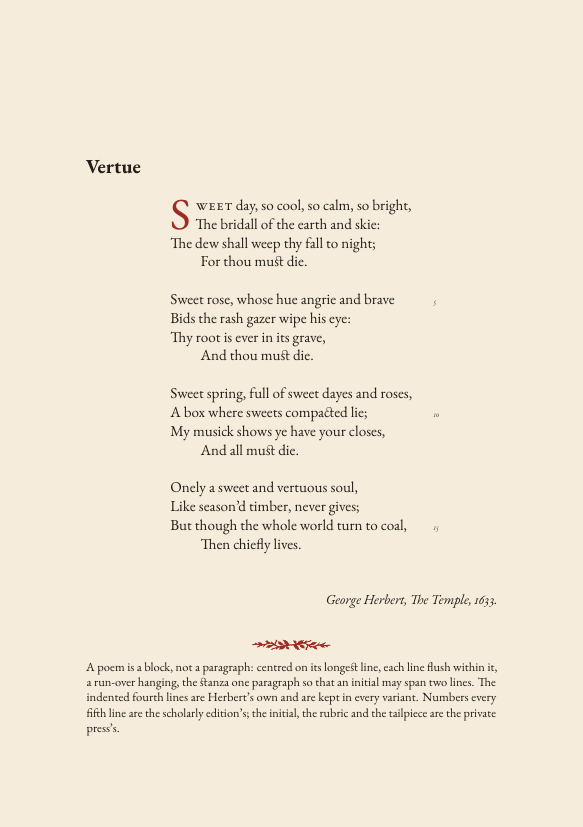
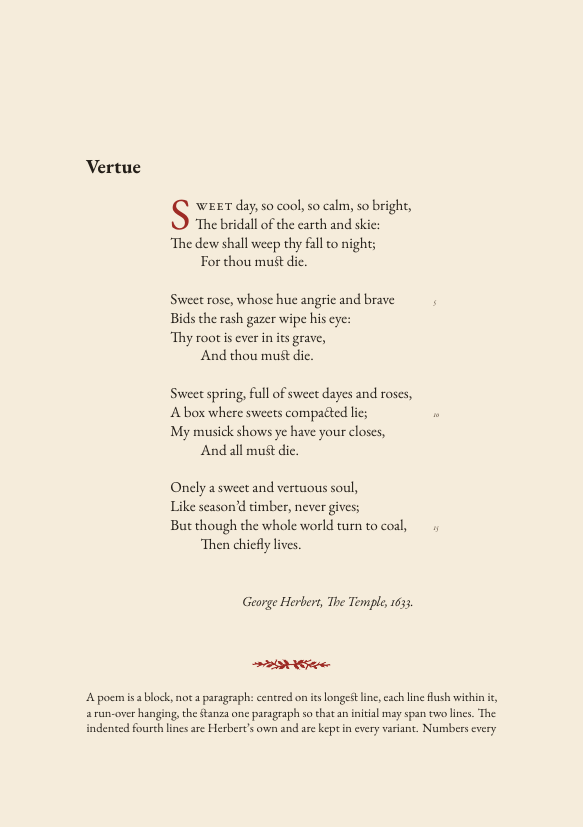
Verse review applied: overflow warned of, no minipage, head width, colophon
The other thread reviewed the verse work and found seven things; all are
applied here, with one more found in the applying.

atlas-verse.sty: a stanza's lines are counted and, after its \par,
compared with \prevgraf, so a block set too narrow warns instead of
silently reading as indents (\prevgraf is 0 inside \write; a count holds
it). \\ before \end{poem} ends the poem rather than making an empty last
line. The block is no longer a minipage: ordinary paragraphs centred by
\leftskip and \rightskip, so a long poem breaks across leaves at a stanza
end; a block wider than the measure is set at the measure with a
warning. The offset is a dimen, not a \newlength skip, which took
"plus1fil" as text and justified every line. A one-word first line keeps
its \\ out of the initial's small capitals. The attribution hangs on the
block. poem* takes no numbers, documented. A \atlassetdate for the
colophon's "on <date>".

atlas-grand.sty: \fancyhfoffset{0pt} after its \geometry -- fancyhdr had
frozen \headwidth at atlas's measure, and every grand page since the
first merge had its head rule 12 mm wider than the block and head and
folio 6 mm off its axis. The sheet sentence ends with \space, so the
colophon no longer reads "order.The".

atlas.sty: \atlas@colophon@when hook; the two colophon hooks printed
with nothing between them.

bound/temple.tex: the two \poemblock lines that named the wrong longest
line (Prayer, Easter Wings); the revision and the setting date passed on
[…]

Changed region(s): [[0.1544, 0.7255, 0.8645, 0.9069], [0.7719, 0.7255, 0.8027, 0.7557]]

diff --git a/examples/09-verse-page.tex b/examples/09-verse-page.tex
@@ -4,7 +4,7 @@
 % a block centred on its longest line, each line flush within it and a
 % run-over hanging; a two-line initial opens it; the title in spaced small
 % capitals; every fifth line numbered in the margin; the source set small
-% and right under the last line; a tailpiece. Against each, what the
+% and right under the last line, on the block; a tailpiece. Against each, what the
 % article class and its verse environment give: a poem indented at the
 % left margin, a bold title, no initial, no numbers, the source as a
 % paragraph, white space. The text is Herbert's "Vertue" (The Temple,
@@ -17,7 +17,9 @@
 % line, a stanza is one paragraph so an initial can span two lines, and
 % each line is outdented from a hanging \leftskip so that only a run-over
 % keeps the hang. See the block's comment for what \\ does and why there
-% is no \everypar.
+% is no \everypar. sty/atlas-verse.sty's block descends from this one but
+% has no minipage, so a poem there can break across leaves; this plate is a
+% one-page specimen and keeps its own.
 \documentclass[11pt]{article}
 
 \usepackage{iftex}
@@ -119,16 +121,17 @@
   \newcommand{\poemnumber}{}
 }
 % The block centred on its longest line, as a book of poems sets it; or
-% the poem at the left margin, indented the 1.5 em the verse environment
-% indents it.
+% the poem where the class's verse environment puts it: lines at
+% \leftmargini (2.5 em) from the left margin, run-overs 1.5 em further,
+% and a right margin to match.
 \atlascontrol{block}{
   \newcommand{\poemopen}{\begin{center}\begin{minipage}[t]{\poemwidth}}
   \newcommand{\poemclose}{\end{minipage}\end{center}}
 }{
-  \newcommand{\poemopen}{\par\noindent\hspace*{1.5em}\begin{minipage}[t]{\dimexpr\linewidth-1.5em\relax}}
+  \newcommand{\poemopen}{\par\noindent\hspace*{\leftmargini}\begin{minipage}[t]{\dimexpr\linewidth-\leftmargini-\leftmargini-1.5em\relax}}
   \newcommand{\poemclose}{\end{minipage}\par}
 }
-\def\poem@eol{\@ifnextchar\par{\poem@stanzaend}{\newline\null\hskip-\poemhang\ignorespaces}}
+\def\poem@eol{\@ifnextchar\par{\poem@stanzaend}{\@ifnextchar\end{\par}{\newline\null\hskip-\poemhang\ignorespaces}}}
 \def\poem@stanzaend\par{\par\vskip\stanzaskip}
 \newenvironment{poem}{%
   \par\addvspace{1.2em}\setcounter{poemline}{0}%
@@ -179,7 +182,7 @@
 % The source under the last line, small, italic, set right; or the same
 % words as a paragraph.
 \atlascontrol{attribution}{
-  \newcommand{\attribution}[1]{\par\vspace{0.6em}{\raggedleft\small\itshape #1\par}}
+  \newcommand{\attribution}[1]{\par\vspace{0.6em}\begin{center}\begin{minipage}{\poemwidth}\raggedleft\small\itshape #1\par\end{minipage}\end{center}}
 }{
   \newcommand{\attribution}[1]{\par\vspace{0.6em}{\noindent #1\par}}
 }

diff --git a/bound/temple.tex b/bound/temple.tex
@@ -8,7 +8,15 @@
 % takes the centred block. The text is public domain; it stands in for the
 % author's own poems, which are dressed on copies in scratch and never here.
 %
-%   TEXINPUTS=sty: lualatex -output-directory=build bound/temple.tex   (x3)
+%   TEXINPUTS=sty: lualatex -output-directory=build \
+%     "\def\atlasrevision{$(git rev-parse --short HEAD)}\def\atlassetdate{16 September 2026}\input{bound/temple.tex}"
+%   three times. The revision is this repository's; the date is the
+%   setting's, not the poems' (the colophon says "on <date>").
+%
+% Each \poemblock names the poem's longest line, measured: a shorter one
+% sets the block too narrow and the long lines run over silently under
+% ragged right -- the style warns of it now, but the source should be
+% right.
 \documentclass[11pt]{article}
 \usepackage{atlas-grand}
 \usepackage{atlas-verse}
@@ -77,7 +85,7 @@ If goodnesse leade him not, yet wearinesse\\
 \tailpiece
 
 \poemtitle{Prayer}
-\poemblock{The six-daies world transposing in an houre,}
+\poemblock{Church-bels beyond the starres heard, the souls bloud,}
 \begin{poem}[Prayer the Churches banquet, Angels age,]
 Prayer the Churches banquet, Angels age,\\
 Gods breath in man returning to his birth,\\
@@ -100,7 +108,7 @@ The land of spices; something understood.\\
 \tailpiece
 
 \poemtitle{Easter Wings}
-\poemblock{Then shall the fall further the flight in me.}
+\poemblock{Lord, who createdst man in wealth and store,}
 \begin{poem*}[Lord, who createdst man in wealth and store,]
 Lord, who createdst man in wealth and store,\\
 Though foolishly he lost the same,\\

diff --git a/HANDOFF.md b/HANDOFF.md
@@ -841,6 +841,50 @@ line; `poem*` centres every line for shaped verse (*Easter Wings*).
 - An end-of-line space inside `\ifnum … \llap{…}\fi` shifted every
   numbered line by a word space; `\relax` closes the number.
 
+**The verse review** (the other thread reviewed this session's work,
+2026-09-16 — the roles reversed, and the loop caught the same kind of
+thing it always has), seven findings, all applied:
+
+- **Overflow is silent under ragged right.** Two `\poemblock` lines in
+  `temple.tex` named the wrong longest line; four lines of *Prayer* and
+  the first of *Easter Wings* ran over and read as intentional indents,
+  and "zero warnings" saw nothing. Now `\\` counts the stanza's lines and
+  after its `\par` compares `\prevgraf` (the lines TeX set) with the
+  count; the difference is a `\PackageWarning`. **`\prevgraf` reads 0
+  inside `\write`** (TeX's mode is 0 there), so it goes into a count
+  first. Tested: 2/1/1/1 on the narrow block, 0 on the right one.
+- **A `\\` before `\end{poem}` made an empty last line** — one
+  `\baselineskip` of air under every poem, in the plate too. `\\` now
+  peeks for `\end` as it peeks for `\par`.
+- **fancyhdr freezes `\headwidth`** at the measure in force when
+  `\pagestyle{fancy}` is said. atlas says it at 142 mm; grand then narrows
+  the block to 130 mm, and every grand page since the first merge had its
+  head rule overhanging the outer margin and head and folio 6 mm off the
+  block's axis — the twelve dressed editions included. `\fancyhfoffset{0pt}`
+  after grand's `\geometry`. Three rounds of looking missed it.
+- **A control word eats the space after it**: `\atlas@colophon@sheet`
+  followed by a newline gave "order.The propositions" in every grand
+  colophon. The sheet sentence ends with `\space`; atlas prints the two
+  hooks with nothing between.
+- The colophon's "on `\@date`" was the poems' date (1633); a
+  `\atlas@colophon@when` hook, `\atlassetdate` in verse (default
+  `\today`; `\def` it on the command line for a reproducible book).
+- **The block is no longer a minipage**, so a poem can break across
+  leaves: ordinary paragraphs centred by `\leftskip`/`\rightskip` at
+  `(\linewidth-\poemwidth)/2` (plus the hang on the left), stanza ends
+  the natural break, `\interlinepenalty` holding a stanza. A block wider
+  than the measure is set at the measure with a warning. Plate 09 keeps
+  its minipage — a one-page specimen — and says so.
+- **`\newlength` makes a skip register**, and `\rightskip<skip>\@plus1fil`
+  takes the register as the whole glue and typesets "plus1fil" — found
+  while applying the block change, when the checker fired on the *right*
+  widths: the lines were justified and wrapping. `\newdimen` for the offset.
+- Also: a one-word first line ("Lord,\\") had its `\\` swallowed into the
+  initial's small capitals — the grab now splits at `\\` and puts it back;
+  the attribution hangs on the block, not the measure; `poem*` takes no
+  numbers (a fill-glue number would break its centring), documented; 09's
+  no-block default is now the class's own `\leftmargini`, not 1.5 em.
+
 **`atlas-verse.sty`** loads over `atlas` or `atlas-grand`: `poem`/`poem*`,
 `\poemblock`, `\poemtitle` (recorded for the Contents), `\attribution`,
 `\tailpiece`, `\AtlasContents`, `\AtlasFirstLines` (sorted in Lua, with
@@ -861,7 +905,9 @@ with the longest line, `\begin{poem}[first line]`, lines ending in `\\`,
 blank lines between stanzas, `\vin` where a line is indented — with
 `\usepackage{atlas-grand}\usepackage{atlas-verse}` and the four lines of
 `temple.tex`'s preamble; `TEXINPUTS=sty:`, three passes, output to
-`build/`. Grandness per instance: `\AtlasVerseNumbers{0}` for no numbers,
+`build/`, with `\def\atlasrevision{…}\def\atlassetdate{…}` on the
+command line as `temple.tex`'s header shows. Measure each `\poemblock`
+line honestly — the style now warns when one is too short. Grandness per instance: `\AtlasVerseNumbers{0}` for no numbers,
 plain `atlas` beneath for a quiet edition, and the per-device grand
 options still to be built.
 
@@ -875,8 +921,9 @@ the Herbert chapbook), and the author's poems are its destination.
    copy in scratch, nothing committed. The first real book will find what
    Herbert's four leaves did not (long poems across pages, epigraphs,
    dedications, dates under poems, sections within a book, a poem whose
-   longest line is longer than the measure). Fix generically in
-   `atlas-verse.sty`; record as the manuscripts' findings are recorded.
+   longest line is longer than the measure — the last two are handled
+   now, untested on a real book). Fix generically in `atlas-verse.sty`;
+   record as the manuscripts' findings are recorded.
 0a. **Per-device grand options** (`nosheet`, `noinitials`, `noframe` …),
    so that grandness is a scale an instance sets, as decided.
 
@@ -933,4 +980,4 @@ before they were set.
 ## Open questions
 
 - Track this file, or gitignore it as the Forgejo notes are? It is written
-  to be tracked, and has been, seven times.
+  to be tracked, and has been, eight times.

diff --git a/README.md b/README.md
@@ -271,8 +271,9 @@ every line ending in `\\`, a `poem*` for shaped verse, `\poemtitle`,
 `\attribution`, `\tailpiece`, a Contents and a sorted Index of First
 Lines from the `.aux`, initials and numbers on under `atlas-grand`.
 `bound/temple.tex` is its proof: four poems of Herbert's *The Temple*
-(1633) as a seven-leaf chapbook — `TEXINPUTS=sty: lualatex
--output-directory=build bound/temple.tex`, three passes. The author's own
+(1633) as a seven-leaf chapbook — see its header for the command; three
+passes. A poem may break across leaves; a block whose lines run over, or
+that is wider than the measure, is warned of. The author's own
 poems are dressed the way the manuscripts are: on a copy in scratch,
 output to `build/`, nothing committed.
 
